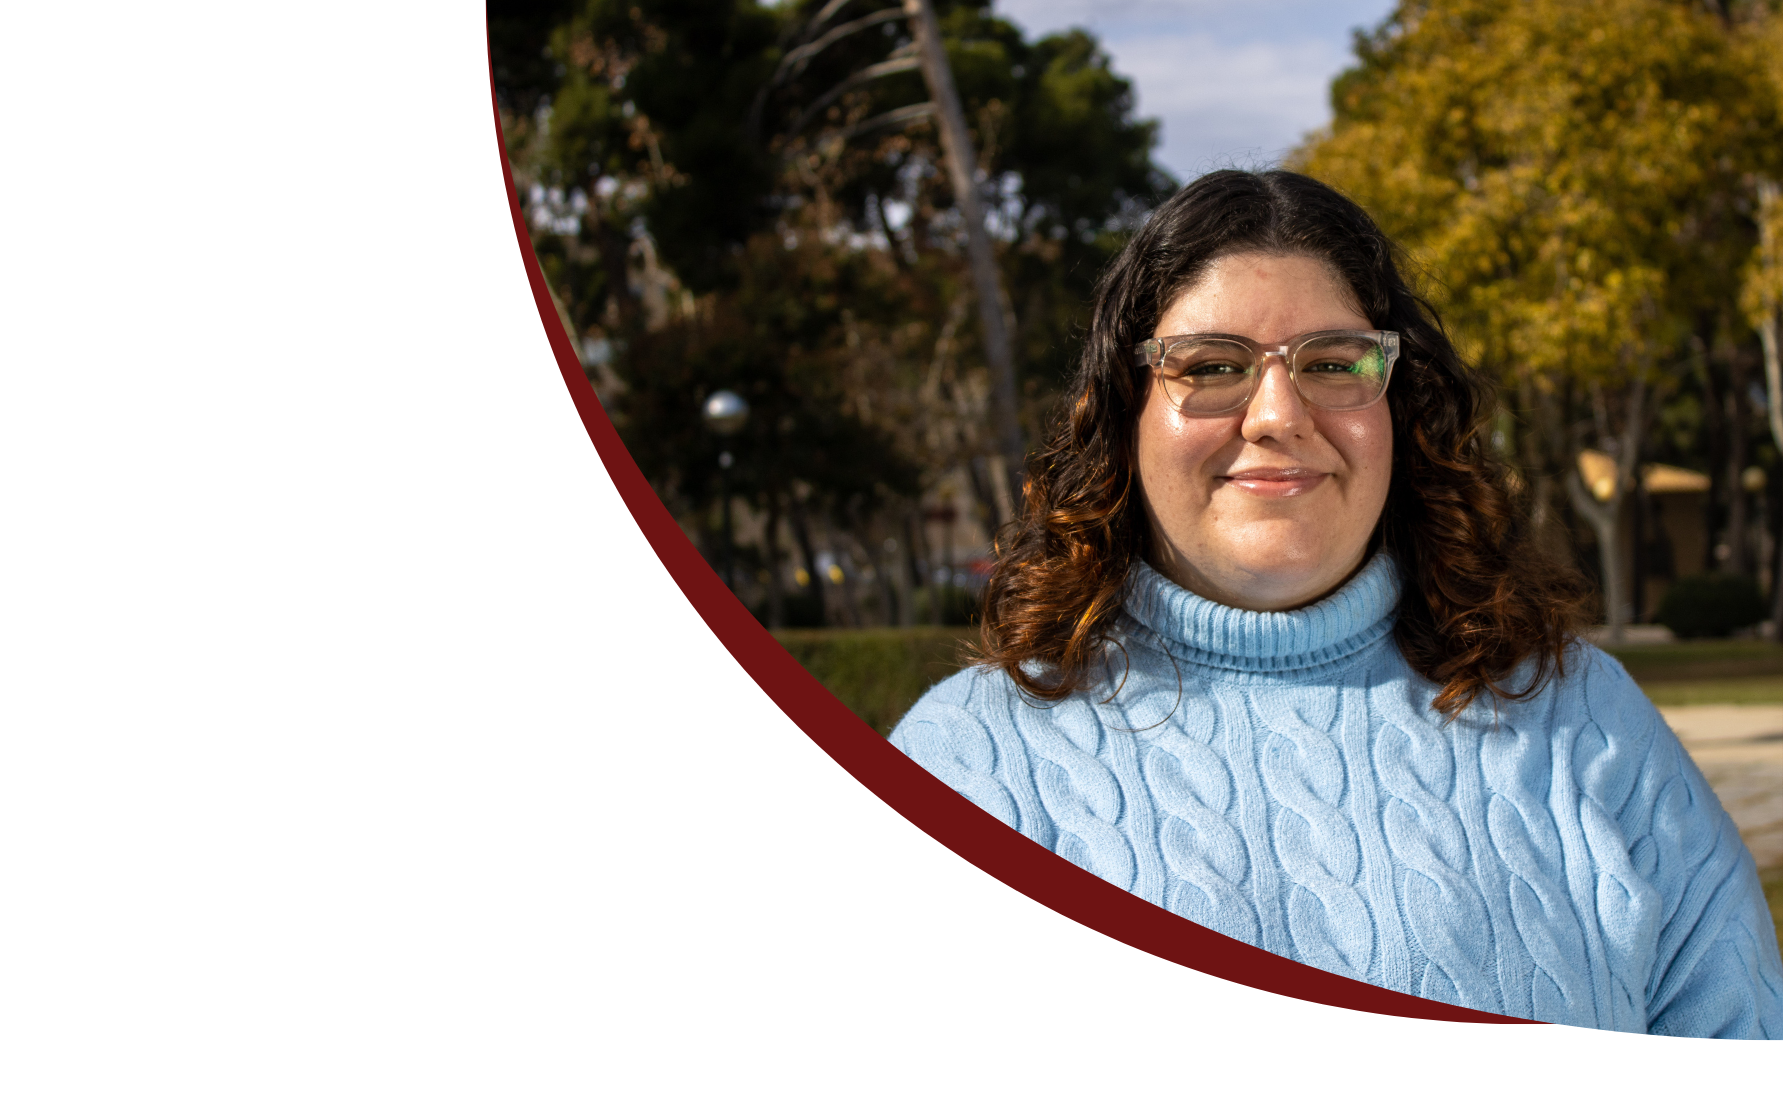
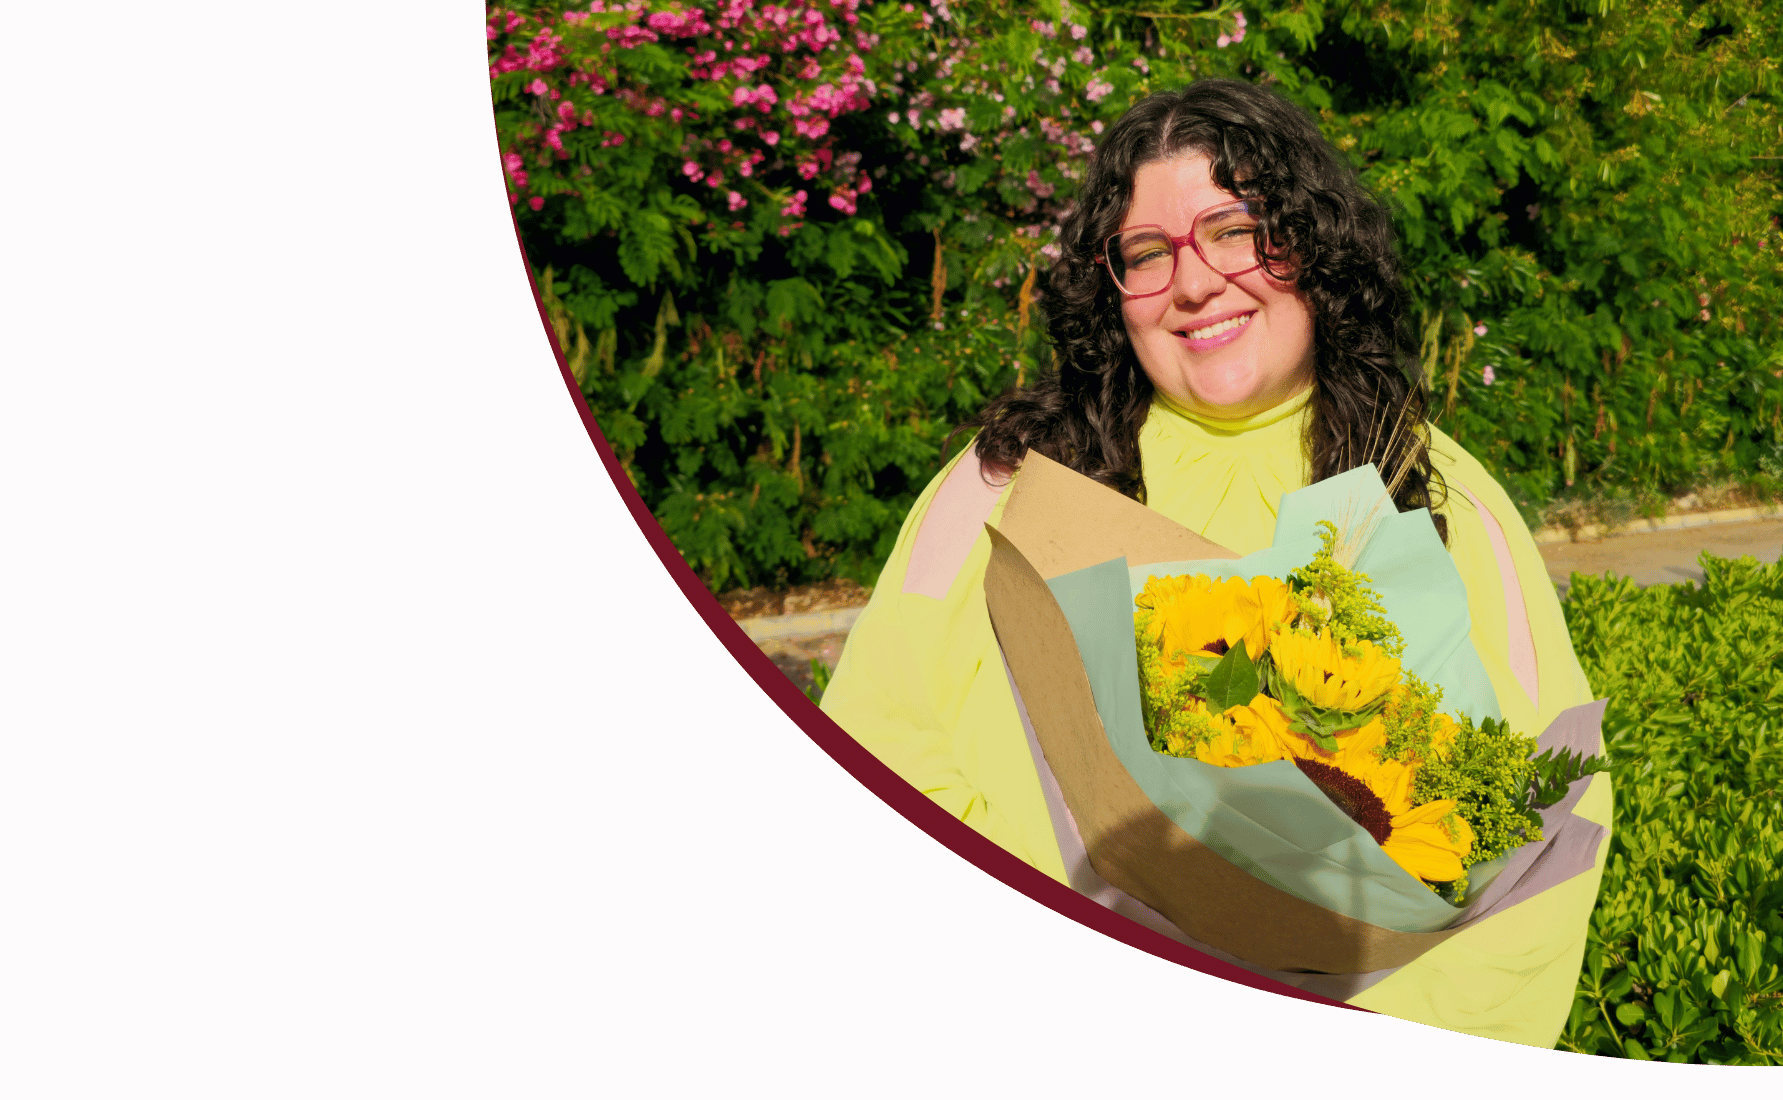
corrección de layout en hero section y cambios en recursos multimedia

diff --git a/index.html b/index.html
@@ -86,6 +86,9 @@
               <a href="https://www.linkedin.com/in/mariangel-barra-navas-547a39257/" data-title="Mi LinkedIn" target="_blank" rel="noreferrer noopener">
                 <i class="fa-brands fa-linkedin" style="font-size:30px"></i>
               </a>
+              <a href="https://www.linkedin.com/in/mariangel-barra-navas-547a39257/" data-title="Peluchones" target="_blank" rel="noreferrer noopener">
+                <img src="/images/peluchones.png" style="width: 35px; height: 35px">
+              </a>
             </div>
           </div>
         </nav>
@@ -389,6 +392,7 @@
                                 Publicado por: Universidad de Zaragoza
                               </h6>
                               <h6>
+                                <br>
                                 2025
                               </h6>
                             </div>
@@ -442,6 +446,7 @@
                           <div class="blog-detail">
                           <div class="blog_title">
                             <h5>
+                              <br>
                               Guardianes del silencio
                             </h5>
                             <div class="blog_post">
@@ -455,6 +460,7 @@
                           </div>
                             <p>
                               El jueves 11 de abril, a las 17:21, el periodista Carlos Julio Rojas contestó uno de nuestros correos aceptando nuestra solicitud de entrevista para esta investigación. Tres días después, el 17 de abril, los titulares de los periódicos venezolanos abrieron con su nombre y su rostro: fue apresado de forma arbitraria durante la noche.
+                              <br><br>
                             </p>
                             <a href="https://www.elsaltodiario.com/zero-grados/guardianes-del-silencio-censura-resistencia-periodismo-venezolano" class="read-more-btn" target="_blank" rel="noreferrer noopener">
                               Leer más
@@ -796,7 +802,7 @@
               <div class="carousel-inner">
                 <!-- Artículo 1 -->
                 <div class="carousel-item active">
-                  <div class="box b2">
+                  <div class="box b4">
                     <div class="img-box">
                       <iframe style="border-radius:12px" src="https://open.spotify.com/embed/episode/5MqUIvIiw1xus1ArXvEWl5?utm_source=generator" width="100%" height="352" frameBorder="0" allowfullscreen="" allow="autoplay; clipboard-write; encrypted-media; fullscreen; picture-in-picture" loading="lazy"></iframe>
                     </div>
@@ -820,7 +826,7 @@
                 
                 <!-- Artículo 2 -->
                 <div class="carousel-item">
-                  <div class="box b2">
+                  <div class="box b4">
                     <div class="img-box">
                       <iframe style="border-radius:12px" src="https://open.spotify.com/embed/episode/2ZJ4l3PxrP7FeivFQJJgcz?utm_source=generator&theme=0" width="100%" height="352" frameBorder="0" allowfullscreen="" allow="autoplay; clipboard-write; encrypted-media; fullscreen; picture-in-picture" loading="lazy"></iframe>
                     </div>
@@ -844,7 +850,7 @@
                 
                 <!-- Artículo 3 -->
                 <div class="carousel-item">
-                  <div class="box b2">
+                  <div class="box b4">
                     <div class="img-box">
                       <iframe style="border-radius:12px" src="https://open.spotify.com/embed/episode/1op6WsHWSigv03zLhJQD5s?utm_source=generator" width="100%" height="352" frameBorder="0" allowfullscreen="" allow="autoplay; clipboard-write; encrypted-media; fullscreen; picture-in-picture" loading="lazy"></iframe>
                     </div>
@@ -868,7 +874,7 @@
 
                 <!-- Artículo 4 -->
                 <div class="carousel-item">
-                  <div class="box b2">
+                  <div class="box b4">
                     <div class="img-box">
                       <iframe style="border-radius:12px" src="https://open.spotify.com/embed/episode/2jaCamxkdeFjKRW1GXIjmX?utm_source=generator&theme=0" width="100%" height="352" frameBorder="0" allowfullscreen="" allow="autoplay; clipboard-write; encrypted-media; fullscreen; picture-in-picture" loading="lazy"></iframe>
                     </div>
@@ -892,7 +898,7 @@
 
                 <!-- Artículo 5 -->
                 <div class="carousel-item">
-                  <div class="box b2">
+                  <div class="box b4">
                     <div class="img-box">
                       <iframe style="border-radius:12px" src="https://open.spotify.com/embed/episode/5ouolFg5aQyieS4RpQ3XGW?utm_source=generator" width="100%" height="352" frameBorder="0" allowfullscreen="" allow="autoplay; clipboard-write; encrypted-media; fullscreen; picture-in-picture" loading="lazy"></iframe>
                     </div>

diff --git a/css/style.css b/css/style.css
@@ -523,11 +523,12 @@ a:focus {
 }
 
 .slider_section .img-box {
-  margin-top: -125px;
+  margin-top: -55px;
 }
 
 .slider_section .img-box img {
   width: 100%;
+  height: 100%!important
 }
 
 .slider_section .img-box::before {
@@ -1462,18 +1463,22 @@ a:focus {
 .blog_section .carousel-control-prev-2 {
   background-image: url(../images/prev-arrow.png);
   left: -75px;
-  top: 350px
+  top: 69.3%
 }
 
 .blog_section .carousel-control-next-2 {
   background-image: url(../images/next-arrow.png);  
   right: -75px;
-  top: 350px
+  top: 69.3%
 }
 
 /* Estilizar los indicadores del carrusel */
 .blog_section .carousel-indicators {
-  bottom: -40px;
+  bottom: -100px;
+}
+
+.blog_section .box {
+  min-height: 600px!important;
 }
 
 .blog_section .carousel-control-prev:hover,

diff --git a/css/responsive.css b/css/responsive.css
@@ -35,7 +35,7 @@
     }
 
     .slider_section .img-box {
-        margin-top: -135px;
+        margin-top: -55px;
     }
 
     .slider_section .detail-box {
@@ -97,7 +97,7 @@
     .social_box {
         filter: invert(100%);
     }
-    
+
         /* Collapse podcast grid to single column below 992px */
     #podcasts .blog_box .row {
         display: block; /* or grid-template-columns: 1fr; if you prefer to stay grid */

diff --git a/css/bootstrap.css b/css/bootstrap.css
@@ -6239,7 +6239,6 @@ a.close.disabled {
   display: none;
   float: left;
   width: 100%;
-  min-height: 800px;
   margin-right: -100%;
   -webkit-backface-visibility: hidden;
   backface-visibility: hidden;
